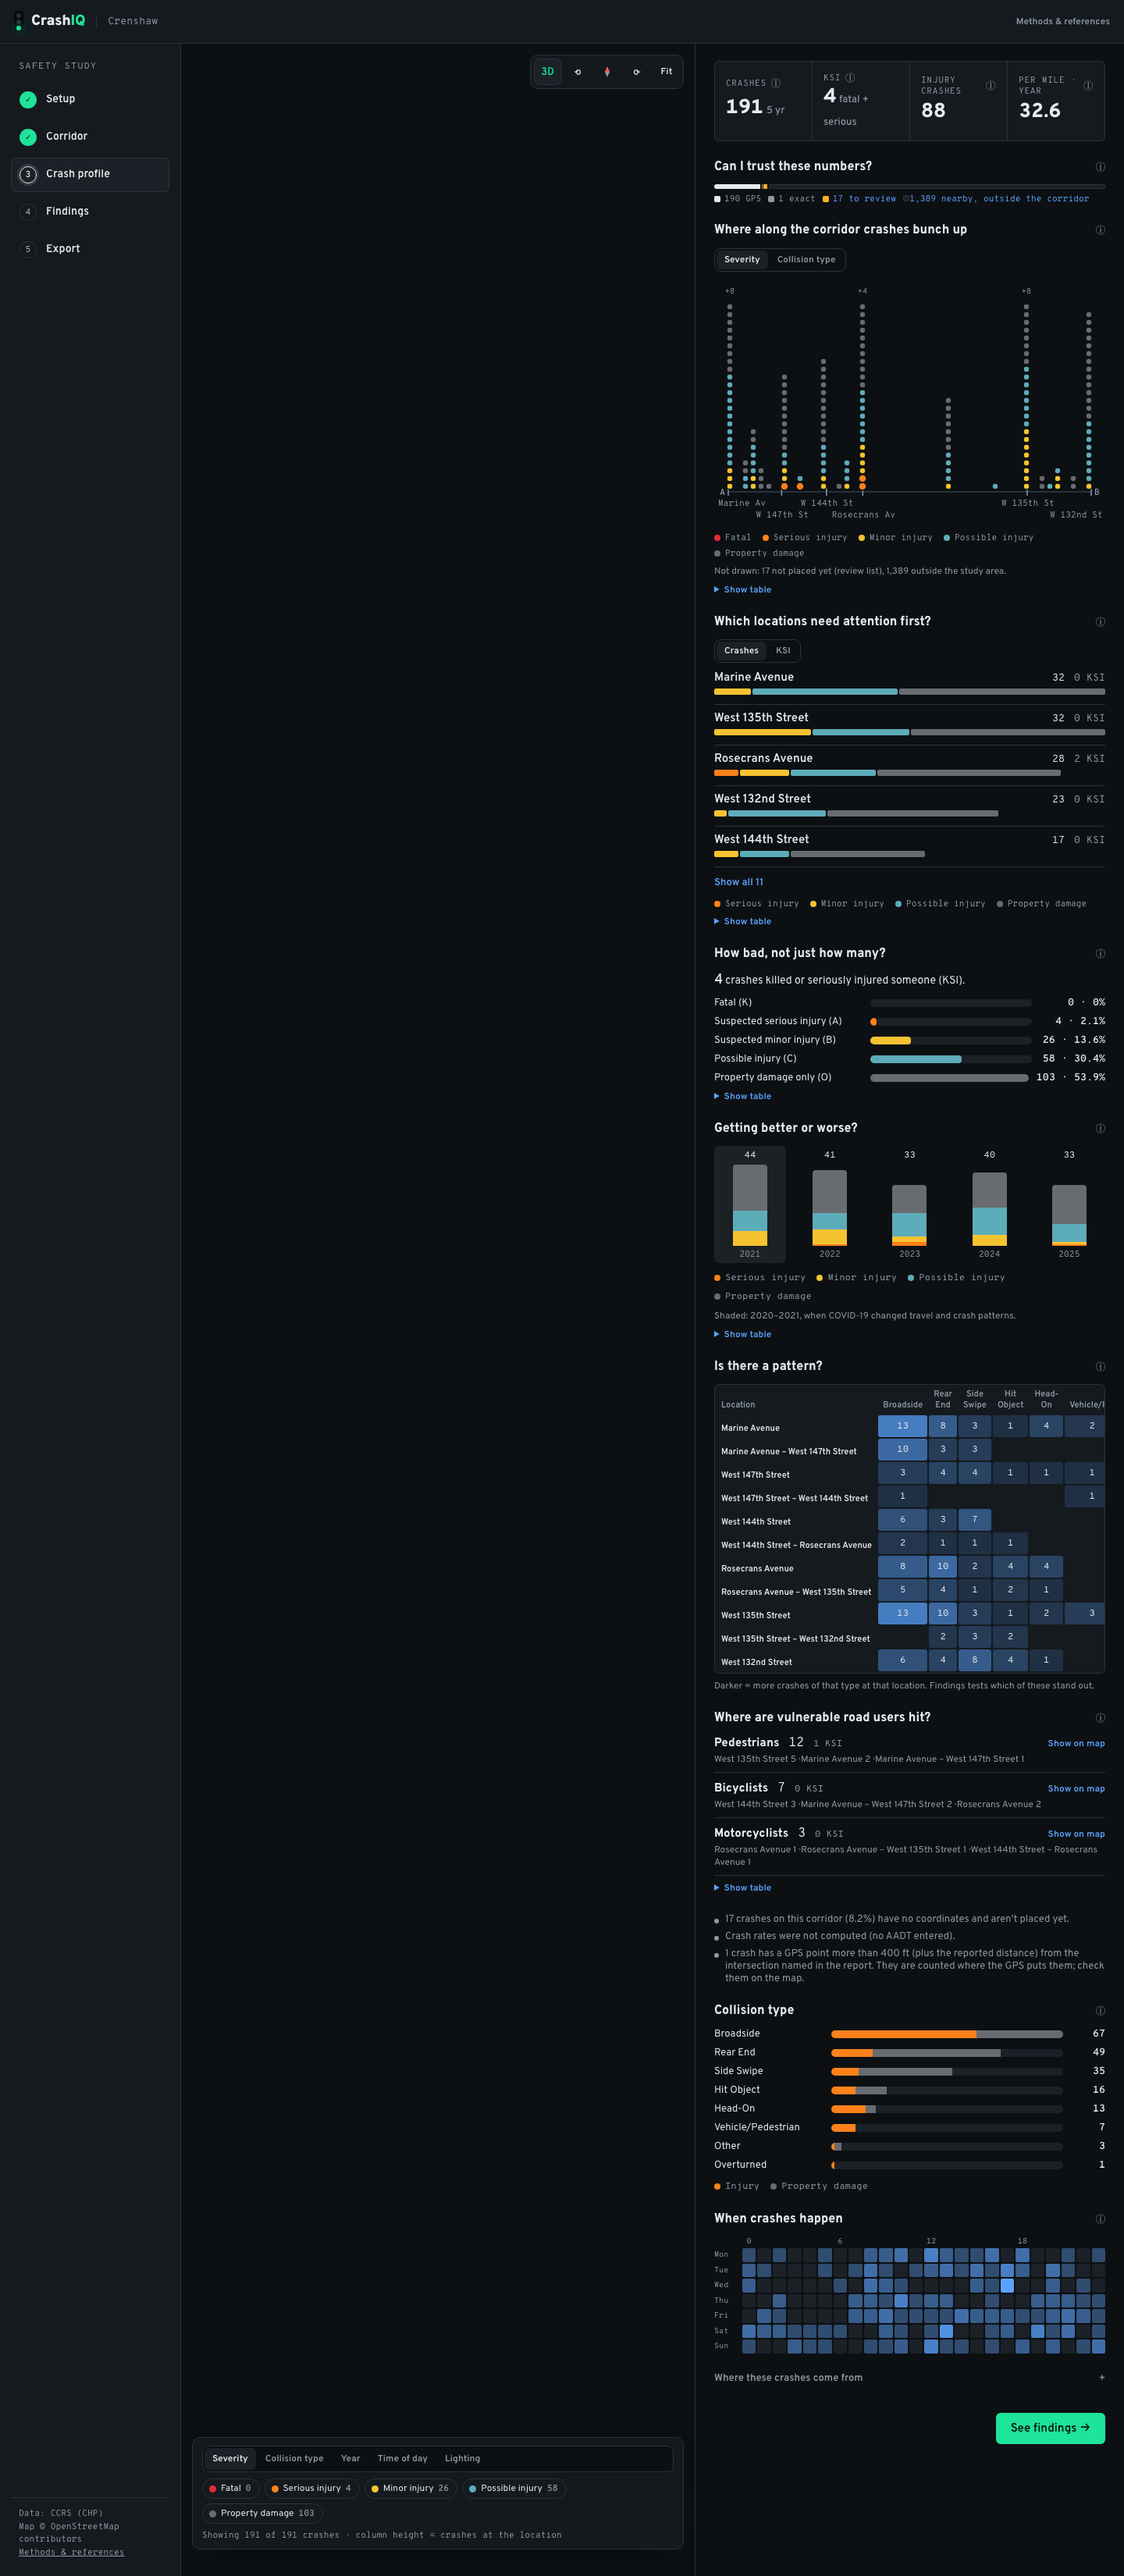
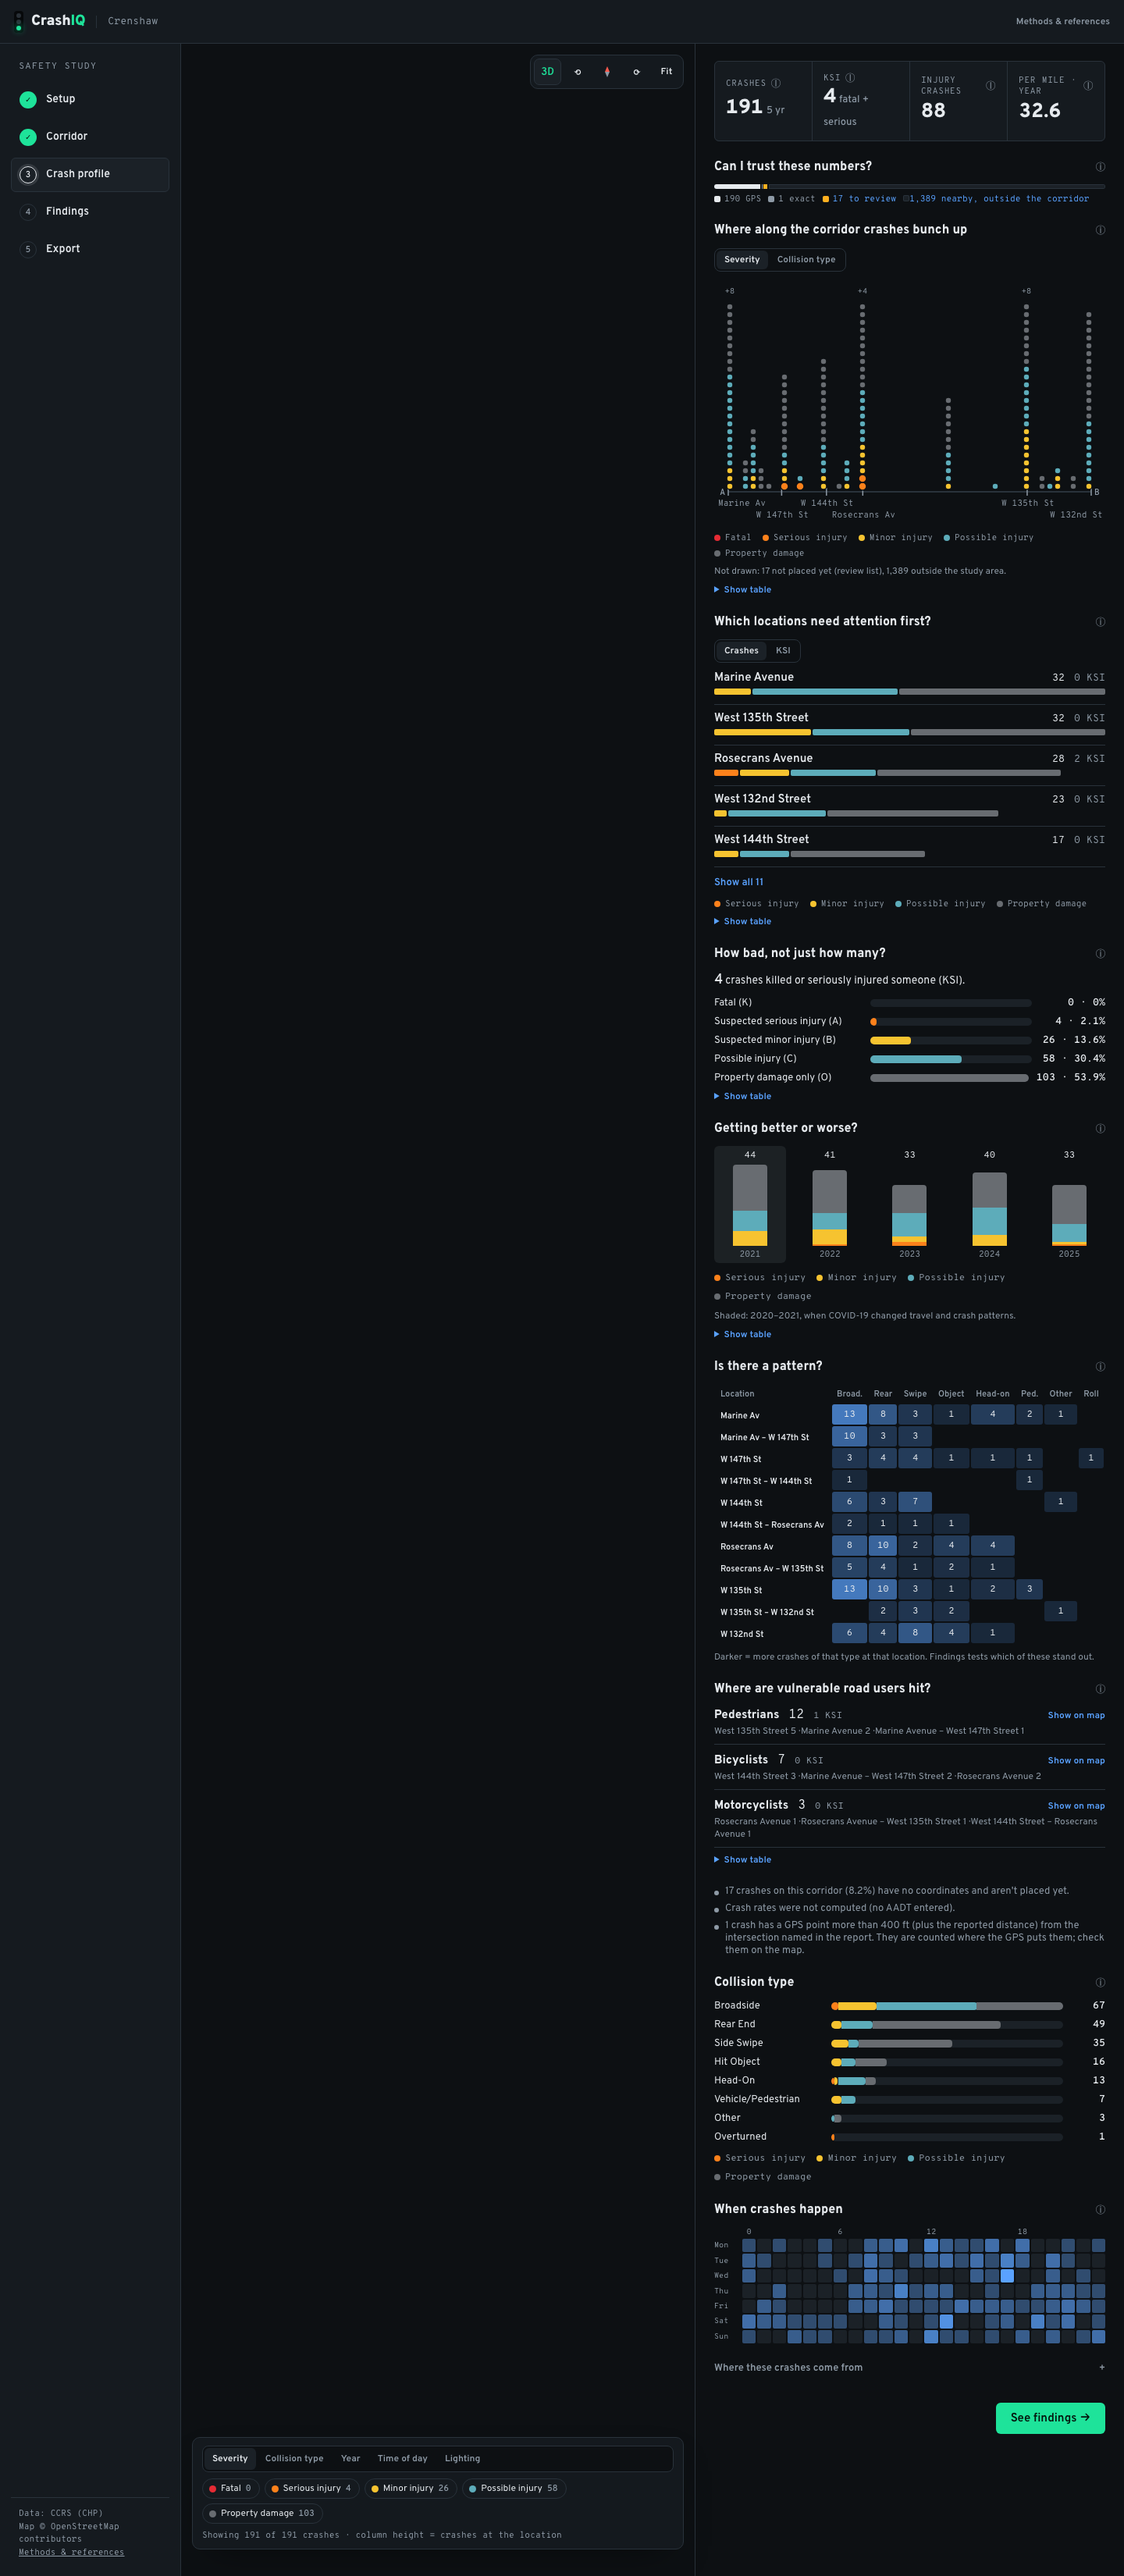
fix(#105, round 1): grid fits (short headers/names + hover, in-grid scroll cue only if needed); collision-type bars stack the severity ramp

Changed region(s): [[0.625, 0.5306, 1.0, 0.9676], [0.9688, 0.7803, 1.0, 0.8115]]

diff --git a/frontend/src/screens/Profile.jsx b/frontend/src/screens/Profile.jsx
@@ -1,10 +1,11 @@
-import { useEffect, useMemo, useState } from 'react'
+import { useEffect, useMemo, useRef, useState } from 'react'
 import { useNavigate, useParams } from 'react-router-dom'
 import ProfileMap from '../components/ProfileMap'
 import ReviewList from '../components/ReviewList'
 import StripDiagram from '../components/StripDiagram'
 import { locationPoints } from '../lib/mapcats'
 import { ApiError, api, errorText } from '../lib/api'
+import { shortName } from '../lib/strip'
 import { cell, fmt, table, titleCase } from '../lib/tables'
 import '../styles/profile.css'
 
@@ -45,8 +46,8 @@ function Bars({ t }) {
         <div className="bar" key={r.key}>
           <span className="lab">{r.label}</span>
           <span className="tr" aria-hidden="true">
-            <i className="inj" style={{ width: `${(100 * r.values.injury_crashes) / max}%` }} />
-            <i className="pdo" style={{ width: `${(100 * (r.values.crashes - r.values.injury_crashes)) / max}%` }} />
+            {/* the one severity ramp, stacked (#119): orange means serious here as everywhere else */}
+            {SEV_PARTS.map(([k]) => (r.values[`sev_${k}`] ? <i key={k} className={`sev-${k}`} style={{ width: `${(100 * r.values[`sev_${k}`]) / max}%` }} /> : null))}
           </span>
           <span className="v mono">{fmt(r.values.crashes)}</span>
         </div>
@@ -314,7 +315,25 @@ function TrendLine({ rows, max }) {
 
 // E. Is there a pattern? (#105) Collision type x location from T13: locations in corridor order, types by count;
 // empty rows and columns hidden; a number in every cell, shade = crashes (one hue). Sets up Findings (T12).
+const TYPE_SHORT = { broadside: 'Broad.', 'rear end': 'Rear', 'side swipe': 'Swipe', 'hit object': 'Object', 'head-on': 'Head-on',
+  'vehicle/pedestrian': 'Ped.', other: 'Other', overturned: 'Roll', not_stated: 'n/s' }
+const gridName = (name) => String(name).split(' – ').map(shortName).join(' – ')
+
 function Grid({ p, onOpen }) {
+  const wrap = useRef(null)
+  const [more, setMore] = useState(false)             // columns still past the right edge: say so (#119)
+  useEffect(() => {
+    const el = wrap.current
+    if (!el) return undefined
+    const check = () => setMore(el.scrollWidth - el.clientWidth - el.scrollLeft > 2)
+    check()
+    el.addEventListener('scroll', check)
+    window.addEventListener('resize', check)
+    const ro = typeof ResizeObserver !== 'undefined' ? new ResizeObserver(check) : null
+    ro?.observe(el)
+    if (el.firstElementChild) ro?.observe(el.firstElementChild)
+    return () => { el.removeEventListener('scroll', check); window.removeEventListener('resize', check); ro?.disconnect() }
+  }, [p])
   const t = table(p, 'T13')
   const t2 = table(p, 'T2')
   const cols = t.columns.filter((c) => c.key !== 'total' && t.rows.some((r) => r.values[c.key]))
@@ -323,13 +342,13 @@ function Grid({ p, onOpen }) {
   return (
     <section aria-label="Collision type by location">
       <div className="sect-h"><h2 className="h3">Is there a pattern?</h2><Src tid="T13" n={cell(p, 'T1/crashes/value')} /></div>
-      <div className="sf-table-wrap">
+      <div className="gridwrap" ref={wrap}>
         <table className="grid13">
-          <thead><tr><th>Location</th>{cols.map((c) => <th key={c.key} className="sf-num" scope="col">{c.label}</th>)}</tr></thead>
+          <thead><tr><th>Location</th>{cols.map((c) => <th key={c.key} className="sf-num" scope="col" title={c.label}>{TYPE_SHORT[c.key.toLowerCase()] || c.label}</th>)}</tr></thead>
           <tbody>
             {rows.map((r) => (
               <tr key={r.key}>
-                <th scope="row"><button type="button" className="rowlink" onClick={() => { const row = t2.rows.find((x) => x.key === r.key); if (row) onOpen(row) }}>{r.label}</button></th>
+                <th scope="row"><button type="button" className="rowlink" title={r.label} onClick={() => { const row = t2.rows.find((x) => x.key === r.key); if (row) onOpen(row) }}>{gridName(r.label)}</button></th>
                 {cols.map((c) => {
                   const n = r.values[c.key] || 0
                   return <td key={c.key} className="sf-num mono" data-testid="grid-cell"
@@ -340,6 +359,7 @@ function Grid({ p, onOpen }) {
           </tbody>
         </table>
       </div>
+      {more ? <p className="gridmore" role="note">More columns → scroll the grid</p> : null}
       <p className="muted small-note">Darker = more crashes of that type at that location. Findings tests which of these stand out.</p>
     </section>
   )
@@ -583,7 +603,7 @@ export default function Profile() {
             <section>
               <div className="sect-h"><h2 className="h3">Collision type</h2><Src tid="T4" n={cell(p, 'T1/crashes/value')} /></div>
               <Bars t={table(p, 'T4')} />
-              <div className="legend small"><span><i style={{ background: 'var(--sev-i)' }} />Injury</span><span><i style={{ background: 'var(--sev-p)' }} />Property damage</span></div>
+              <div className="legend small">{SEV_PARTS.filter(([k]) => table(p, 'T4').rows.some((r) => r.values[`sev_${k}`])).map(([k, l]) => <span key={k}><i className={`sev-${k}`} />{l}</span>)}</div>
             </section>
             <section>
               <div className="sect-h"><h2 className="h3">When crashes happen</h2><Src tid="T9" n={cell(p, 'T1/crashes/value')} /></div>

diff --git a/frontend/src/screens/Profile.test.jsx b/frontend/src/screens/Profile.test.jsx
@@ -281,11 +281,13 @@ describe('Crash profile screen', () => {
     const body = g.querySelectorAll('tbody tr')
     expect(body).toHaveLength(rows.length)
     rows.forEach((r, i) => {
-      expect(body[i].querySelector('th').textContent).toBe(r.label)
+      expect(body[i].querySelector('th button').getAttribute('title')).toBe(r.label)       // short name shown, full on hover
       const cells = [...body[i].querySelectorAll('td')].map((td) => Number(td.textContent || 0))
       expect(cells).toEqual(cols.map((c) => r.values[c.key] || 0))
     })
-    expect([...g.querySelectorAll('thead th')].slice(1).map((th) => th.textContent)).toEqual(cols.map((c) => c.label))
+    const heads = [...g.querySelectorAll('thead th')].slice(1)
+    expect(heads.map((th) => th.getAttribute('title'))).toEqual(cols.map((c) => c.label))
+    expect(heads.every((th) => th.textContent.length <= 9)).toBe(true)                          // short headers (#119)
   })
 
   it('vulnerable road users: counts and KSI equal T10, top locations from T2, map toggle filters (#105)', async () => {

diff --git a/frontend/src/styles/profile.css b/frontend/src/styles/profile.css
@@ -211,3 +211,11 @@
 .vru-h .n { font-size: 16px; } .vru-h .ksi { color: var(--muted); font-size: 12px; }
 .vru-h .linkbtn { margin-left: auto; padding: 0; font-size: 12px; } .vru-h .linkbtn.on { color: var(--amber); }
 .vru-top { font-size: 12px; }
+/* #119: the grid fits the column; an in-grid scroll with a visible cue only when it still doesn't */
+.gridwrap { overflow-x: auto; max-width: 100%; }
+.grid13 { table-layout: auto; }
+.grid13 tbody th { white-space: normal; max-width: 150px; } .grid13 tbody th .rowlink { white-space: normal; text-align: left; line-height: 1.25; }
+.grid13 thead th.sf-num { white-space: nowrap; max-width: none; }
+.grid13 td { min-width: 22px; padding: 5px 2px; }
+.gridmore { margin: 4px 0 0; font: 11px var(--font-mono); color: var(--info); text-align: right; }
+.bar .tr i[class^="sev-"]:last-child { border-radius: 0 4px 4px 0; }

diff --git a/backend/crashiq/profile.py b/backend/crashiq/profile.py
@@ -66,9 +66,12 @@ def _dist(tid, title, crashes, field, label_of=lambda v: v or "Not stated", orde
     cnt = Counter((c.get(field) or "") for c in crashes)
     inj = Counter((c.get(field) or "") for c in crashes if c["severity"] in INJURY)
     ksi = Counter((c.get(field) or "") for c in crashes if c["severity"] in "KA")
+    lvl = {L: Counter((c.get(field) or "") for c in crashes if c["severity"] == L) for L in "KABCUO"}
     keys = order or sorted(cnt, key=lambda k: (-cnt[k], k))
+    # sev_k ... sev_o per row: the bars stack the one severity ramp, so orange always means serious (#119)
     rows = [_row(k or "not_stated", label_of(k), crashes=cnt[k], injury_crashes=inj[k], ksi_crashes=ksi[k],
-                 share_pct=pct(cnt[k], n)) for k in keys if cnt[k] or order]
+                 share_pct=pct(cnt[k], n), **{f"sev_{L.lower()}": lvl[L][k] for L in "KABCUO"})
+            for k in keys if cnt[k] or order]
     return _table(tid, title, [("crashes", "Crashes"), ("injury_crashes", "Injury crashes"),
                                ("ksi_crashes", "KSI crashes"), ("share_pct", "Share %")], rows, crashes)
 

diff --git a/tests/test_profile.py b/tests/test_profile.py
@@ -217,3 +217,13 @@ def test_t13_collision_type_by_location_matches_t2_and_t4():
     for row in t4["rows"]:
         assert sum(r["values"][row["key"]] for r in t13["rows"]) == row["values"]["crashes"]
     assert all("moto_crashes" in r["values"] for r in t2["rows"])
+
+
+def test_distribution_rows_carry_the_severity_split():
+    # #119: collision-type bars stack the ramp; every T4..T8 row's severity split sums to its crashes
+    p = P()
+    for tid in ("T4", "T5", "T6", "T7", "T8"):
+        for r in next(t for t in p["tables"] if t["id"] == tid)["rows"]:
+            v = r["values"]
+            assert sum(v[f"sev_{k}"] for k in "kabcuo") == v["crashes"]
+            assert v["sev_k"] + v["sev_a"] == v["ksi_crashes"]
